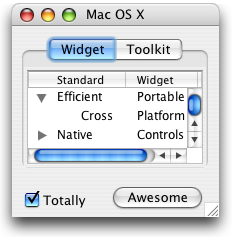
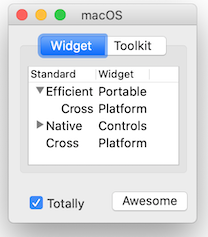
Bug 528173 - SWT Website Documentation needs a refresh
Format the Releases table
Updated Mac screenshot

diff --git a/index.php b/index.php
@@ -25,28 +25,21 @@ on which it is implemented.</p>
 	<h2>Releases</h2>
 
 	<table width="100%">
-		<tr><td width="50%" valign="top">
-			<table width="100%">
-			<tr><td>
-			<b><font size="+1">Stable</font></b><br>
-			<a href="http://download.eclipse.org/eclipse/downloads/">Eclipse download page</a>
-				<span style="white-space: nowrap;">
-				<small>For links to the stable SWT Binary and Source for all platforms,<br>select the entry for the latest official release 
-                                       and then scroll to bottom of page.<br></small></span>
-				</td></tr>
-			</table>
-		</td>
-		<td width="50%" valign="top">
-			<table width="100%">
-				<tr><td>
+		<tr><td width="100%" valign="top">
+			<p>
+				<b><font size="+1">Stable</font></b><br>
+				<a href="http://download.eclipse.org/eclipse/downloads/">Eclipse download page</a><br>
+				For links to the stable SWT Binary and Source for all platforms, select the entry for the latest official release and then scroll to bottom of page.
+			</p>
+		</td></tr>
+		<tr><td width="100%" valign="top">
+			<p>
 				<b><font size="+1">Development</font></b><br>
-				<a href="http://download.eclipse.org/eclipse/downloads/">Eclipse download page</a>
-				<span style="white-space: nowrap;">
-				<small>For links to SWT Binary and Source for all platforms,<br>select current integration build (select entry starting with I in the
-	                               Latest Downloads) and then scroll to bottom of page.<br></small></span>
-				</td></tr>
-			</table>
-		</td>
+				<a href="http://download.eclipse.org/eclipse/downloads/">Eclipse download page</a><br>
+				For links to SWT Binary and Source for all platforms, select current integration build 
+				(select entry starting with I in theLatest Downloads) and then scroll to bottom of page.
+			</p>
+		</td></tr>
 	</table>
 </div>
 
